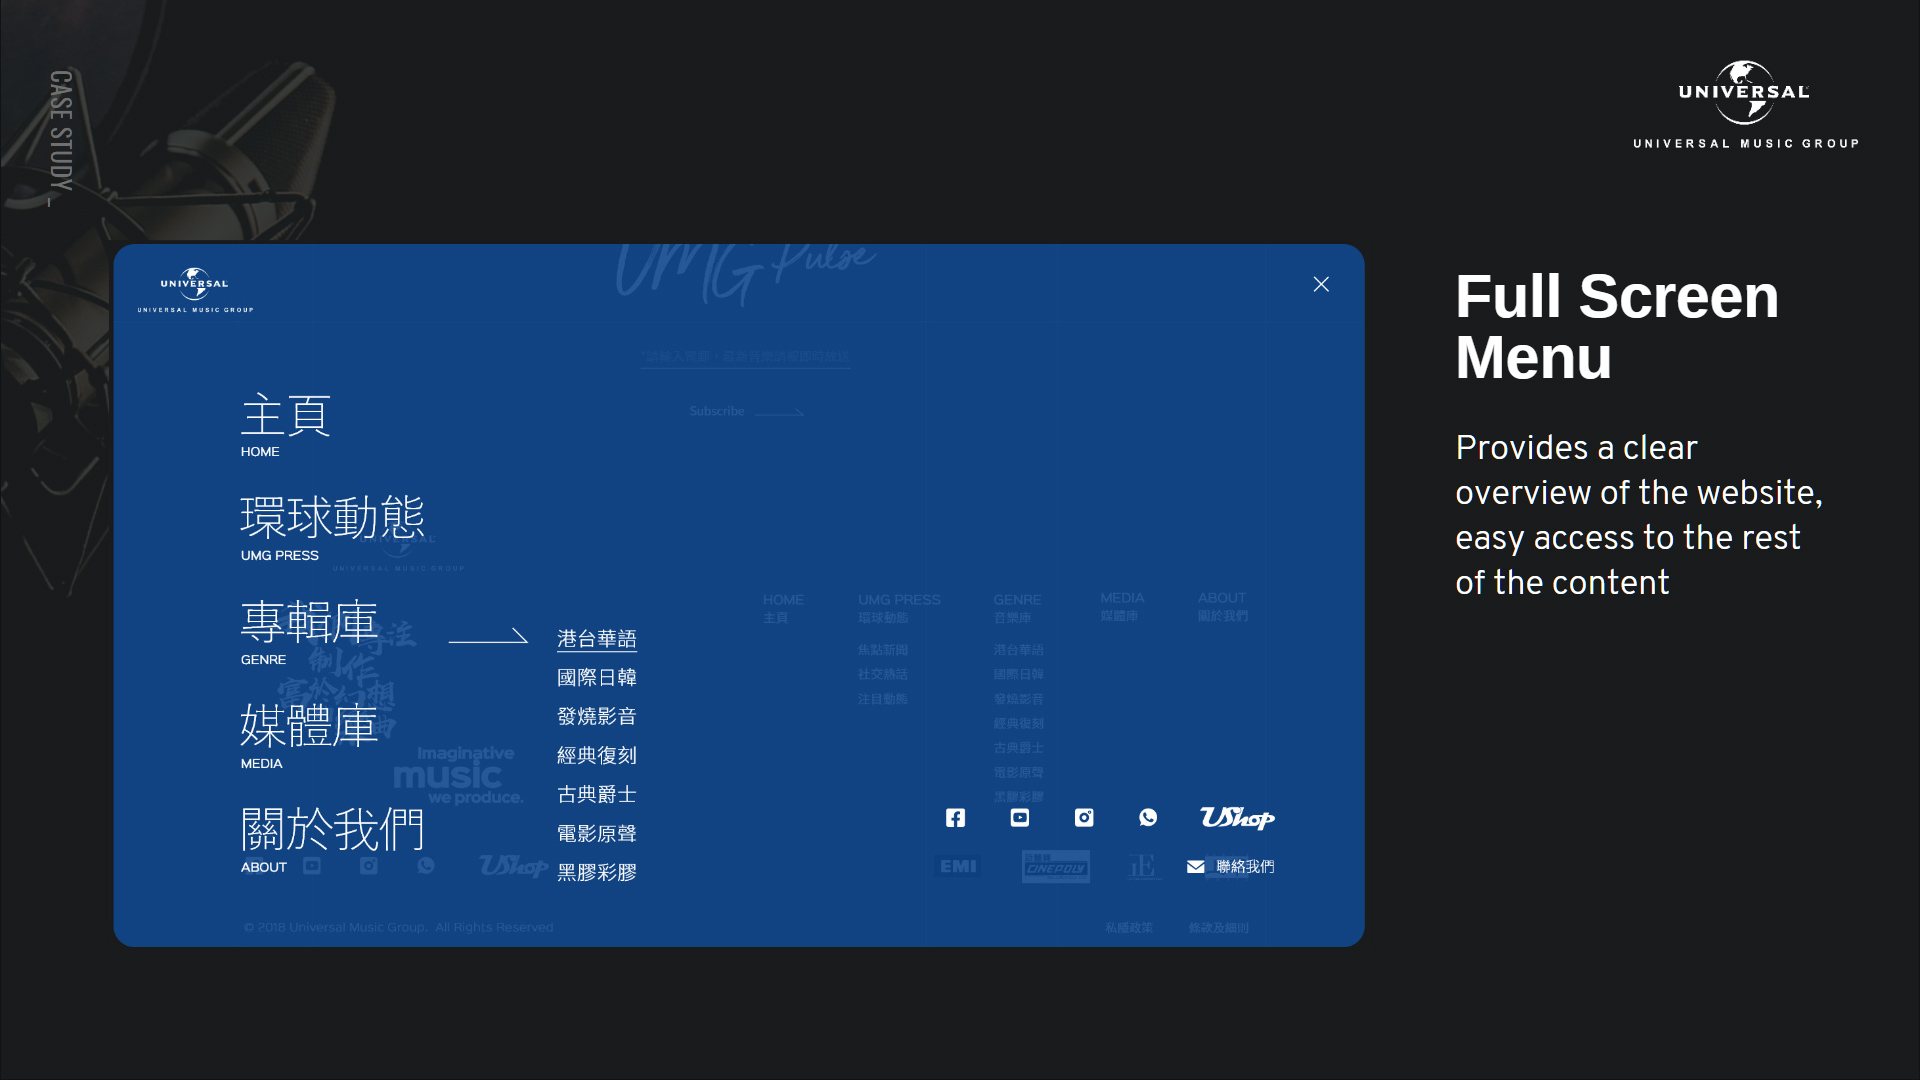
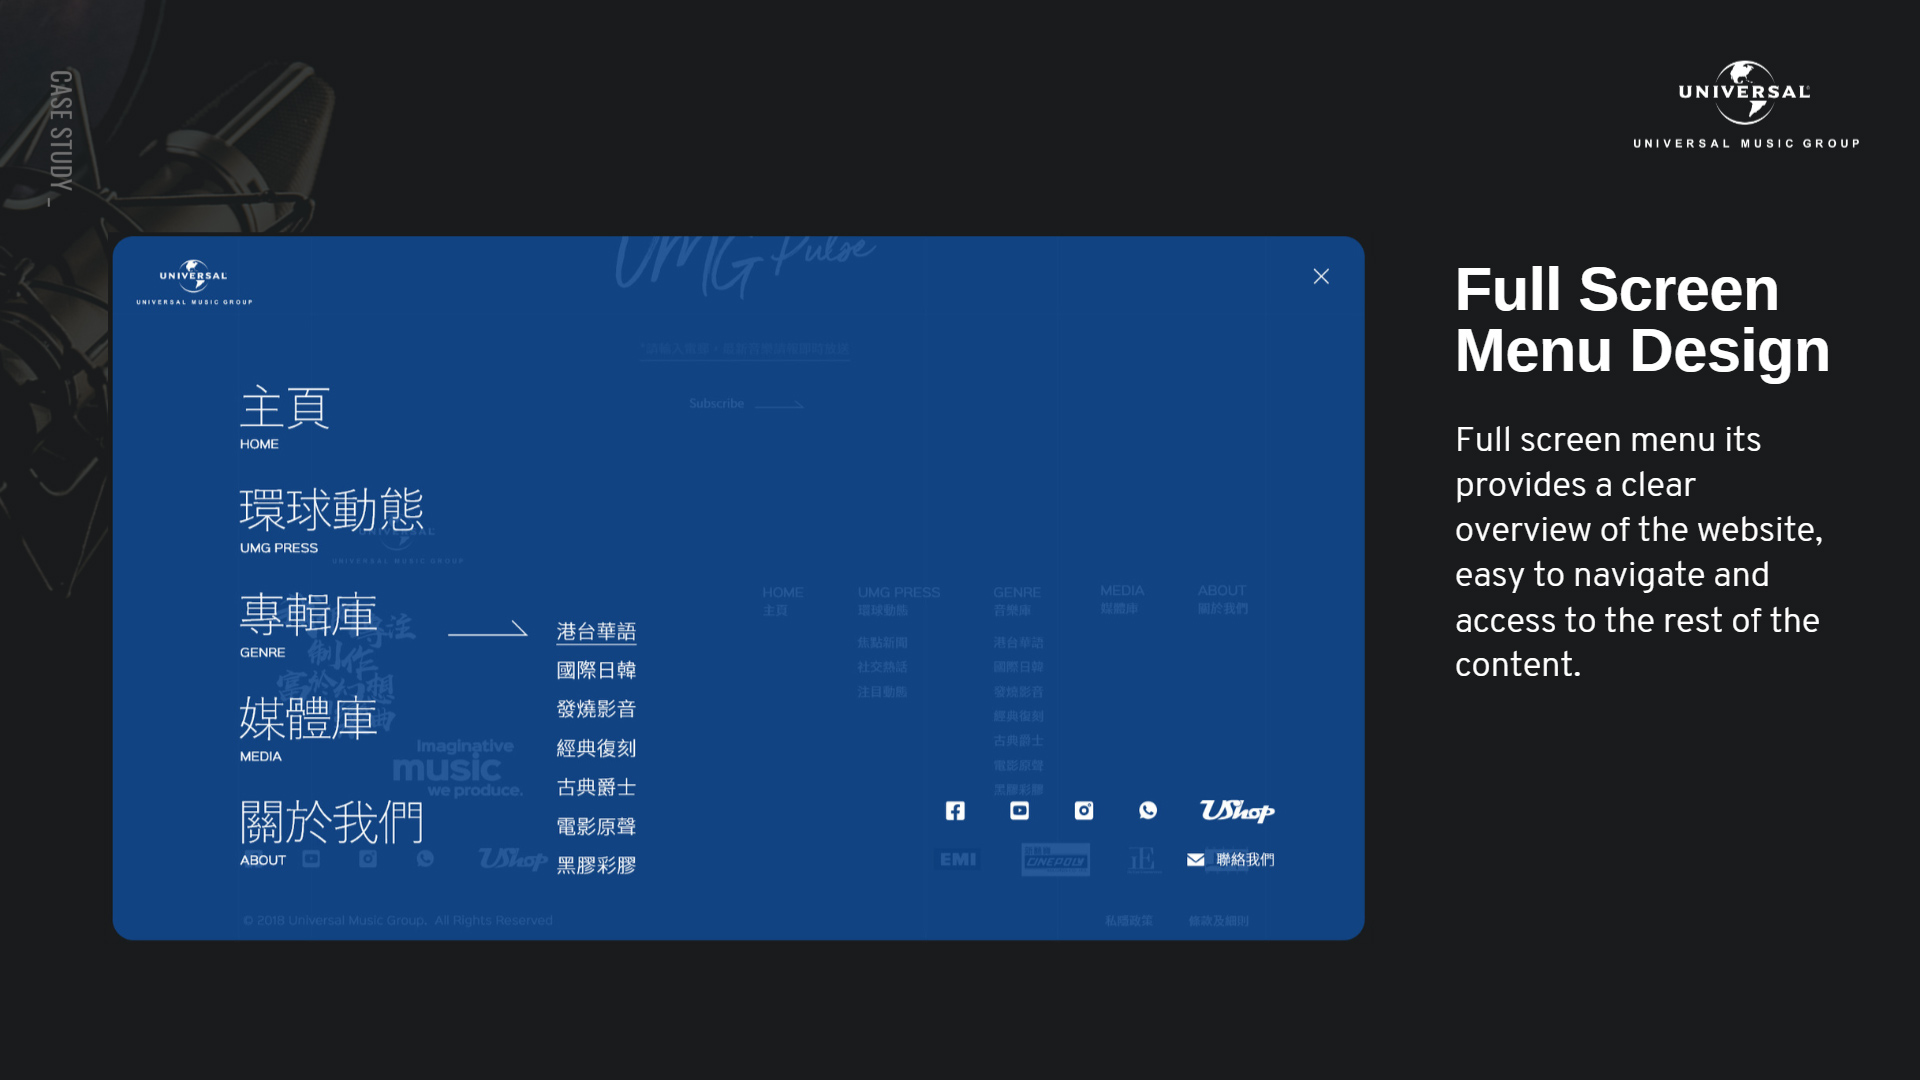
220223_01

diff --git a/umg_case_study.html b/umg_case_study.html
@@ -479,7 +479,6 @@ body, .body {
 
 
 
-
         <p class=" h1 spacing-title">PT_page_28</p>
 
         <p class=" body spacing-small">係Landing第2部分, 係唱片公司核心內容, 重新設計內容表達,  有唔同Design element 去配合 , 更快地識別 唔同類型內容, 連接目標受眾。 <!--歌手Social feed, 同埋歌手Event 等等。 連接到 需要Social media content觀眾。 帶動番Users繼續瀏覽, 增加多D traffic。--></p>
@@ -488,11 +487,15 @@ body, .body {
 
 
 
-        <p class=" body spacing-small">重新設計Menu 係Full screen, 簡化左網站架構, 有1個清晰概覽。 容易瀏覽其餘內容。</p>
+        <p class=" h1 spacing-title">PT_page_29</p>
 
+        <p class=" body spacing-small">重新設計Menu 係Full screen, 簡化左網站架構, 有1個清晰概覽。 容易瀏覽其餘內容。</p>
 
         <p class=" body spacing-medium">(下一頁 Slide.....)</p>
 
+
+
+        <p class=" h1 spacing-title">PT_page_30</p>
 
         <p class=" body spacing-small">另外, 帶更多Traffic 去Ushop.com 係第2個project goal,  Users係專輯詳情 page, 有個大圓形 CTA button, 可以Click去 CD Shop 到購買CD。 .......(本身係正常round corner button, 似Lable....不過Client......)</p>
 
